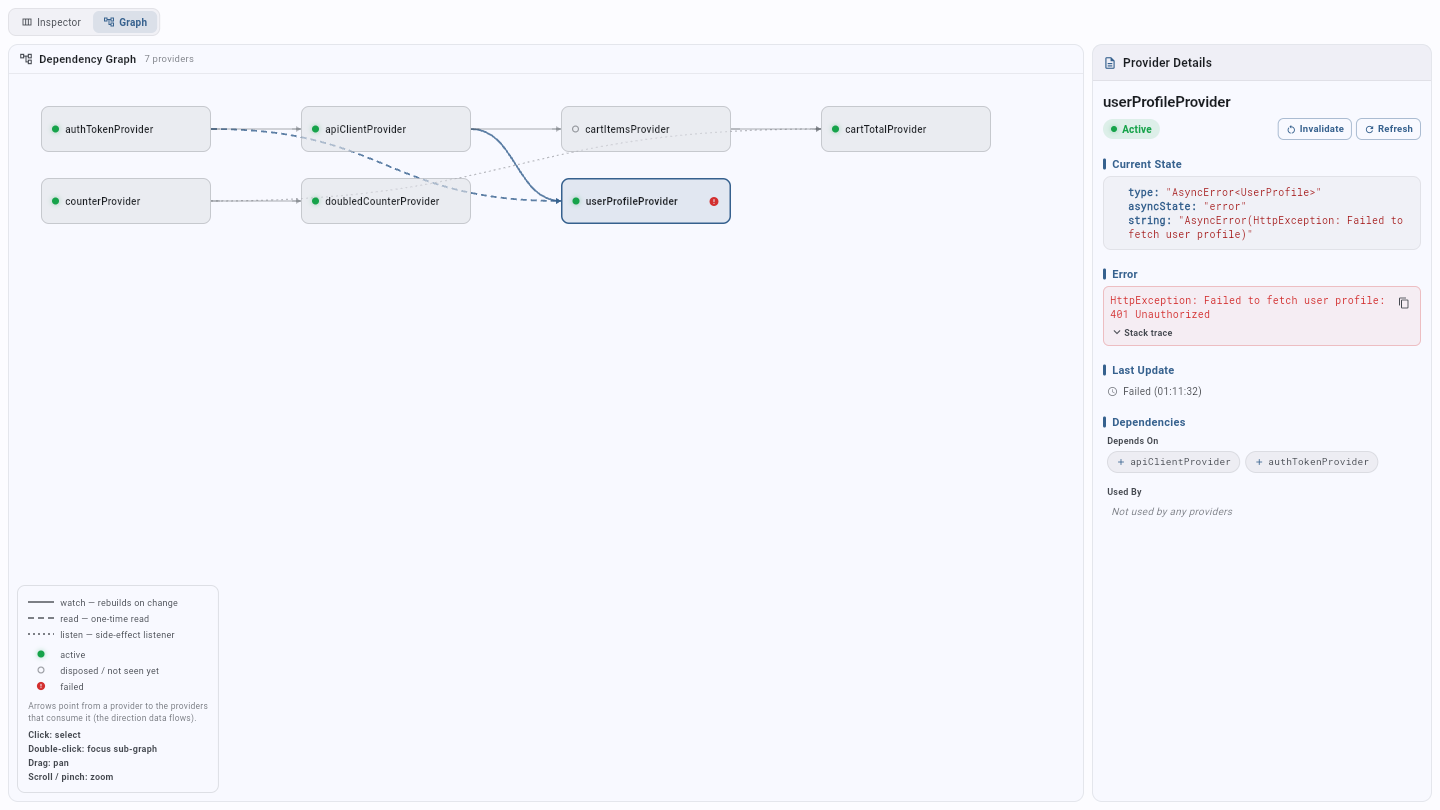
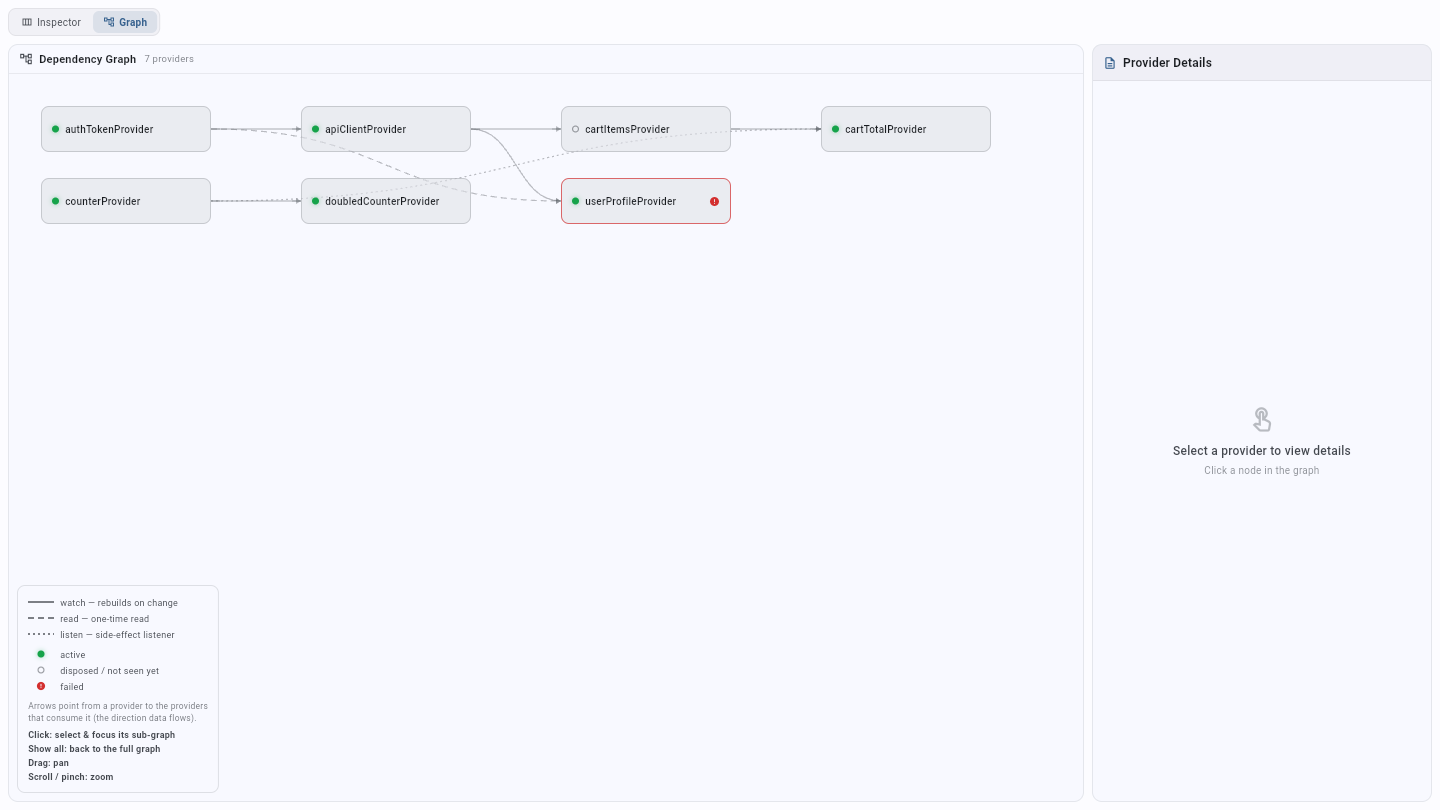
Unify node interaction: click selects and focuses in one gesture
The click/double-click split cost more than it bought: the focus
gesture was undiscoverable without reading the legend, registering a
double-tap handler delayed every single click by the disambiguation
window, and focusing did not select the node so the detail panel could
disagree with the focused sub-graph. A single click now selects the
node and focuses the graph on its transitive dependencies and
dependents; "Show all" returns to the full graph. Legend, tooltips, and
screenshots updated.

Claude-Session: https://claude.ai/code/session_01LNVDQSABpqNC2NdaJ9GUPb

diff --git a/packages/riverpod_devtools_extension/lib/src/widgets/graph/graph_view.dart b/packages/riverpod_devtools_extension/lib/src/widgets/graph/graph_view.dart
@@ -7,9 +7,10 @@ import '../common/panel_ui.dart';
 import '../detail_panel/detail_panel.dart';
 
 /// Interactive dependency-graph view: layered DAG (dependencies on the
-/// left, dependents to the right), pan/zoom, click-to-select (synced with
-/// the detail panel on the right), double-click to focus on a node's
-/// sub-graph, and cycle highlighting.
+/// left, dependents to the right), pan/zoom, and cycle highlighting.
+/// Clicking a node selects it (details shown in the panel on the right)
+/// and focuses the graph on its sub-graph in one gesture; "Show all"
+/// returns to the full graph.
 class GraphView extends StatelessWidget {
   final InspectorNotifier notifier;
 
@@ -260,8 +261,8 @@ class _GraphCanvas extends StatelessWidget {
                           notifier.removeSelectedProvider(name);
                         }
                         notifier.selectProvider(node.name);
+                        notifier.setGraphFocus(node.name);
                       },
-                      onDoubleTap: () => notifier.setGraphFocus(node.name),
                     ),
                   ),
               ],
@@ -367,8 +368,8 @@ class _GraphLegend extends StatelessWidget {
           ),
           const SizedBox(height: 4),
           Text(
-            'Click: select\n'
-            'Double-click: focus sub-graph\n'
+            'Click: select & focus its sub-graph\n'
+            'Show all: back to the full graph\n'
             'Drag: pan\n'
             'Scroll / pinch: zoom',
             style: labelStyle.copyWith(fontWeight: FontWeight.w600, height: 1.5),
@@ -425,7 +426,6 @@ class _GraphNode extends StatelessWidget {
   final bool isFlashing;
   final bool isDimmed;
   final VoidCallback onTap;
-  final VoidCallback onDoubleTap;
 
   const _GraphNode({
     required this.name,
@@ -434,7 +434,6 @@ class _GraphNode extends StatelessWidget {
     required this.isFlashing,
     required this.isDimmed,
     required this.onTap,
-    required this.onDoubleTap,
   });
 
   @override
@@ -456,11 +455,10 @@ class _GraphNode extends StatelessWidget {
     return Opacity(
       opacity: isDimmed ? 0.25 : 1,
       child: Tooltip(
-        message: '$name\nClick: select\nDouble-click: focus sub-graph',
+        message: '$name\nClick: select & focus its sub-graph',
         waitDuration: const Duration(milliseconds: 600),
         child: GestureDetector(
           onTap: onTap,
-          onDoubleTap: onDoubleTap,
           child: MouseRegion(
             cursor: SystemMouseCursors.click,
             child: AnimatedContainer(

diff --git a/packages/riverpod_devtools/CHANGELOG.md b/packages/riverpod_devtools/CHANGELOG.md
@@ -2,7 +2,7 @@
 
 - **Interactive dependency graph view** ([#55](https://github.com/yutsuki3/riverpod_devtools/issues/55)):
     - New Inspector / Graph view switcher in the DevTools extension. The Graph view renders providers as a layered DAG (dependencies left, dependents right) with pan/zoom, edge styling per dependency kind (`watch` solid, `read` dashed, `listen` dotted), status coloring (active / disposed / failed with error badge), and dependency-cycle highlighting.
-    - Click a node to select it (Provider Details shown alongside, including Invalidate/Refresh); double-click to focus on a node's transitive dependencies and dependents; the provider search query dims non-matching nodes.
+    - Clicking a node selects it (Provider Details shown alongside, including Invalidate/Refresh) and focuses the graph on its transitive dependencies and dependents in one gesture; "Show all" returns to the full graph. The provider search query dims non-matching nodes, and an on-screen legend explains the edge styles, node states, and gestures.
     - The observer now attaches `dependencyDetails` (kind + source location per dependency, from the static-analysis registry) to `provider_added` events so the extension can style edges.
 - **State operations: invalidate / refresh from DevTools and MCP** ([#54](https://github.com/yutsuki3/riverpod_devtools/issues/54)):
     - The observer now tracks live provider instances (with their owning container) and can execute `invalidate` / `refresh` commands against them. Debug mode only.
